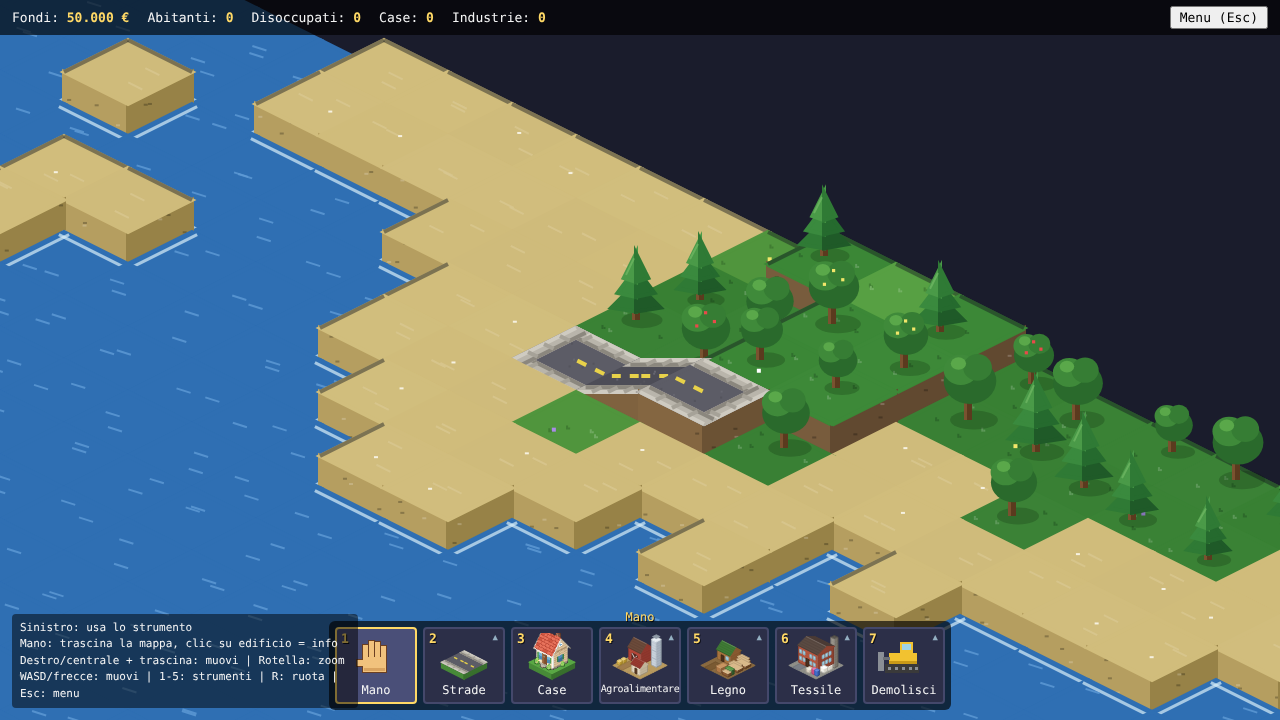
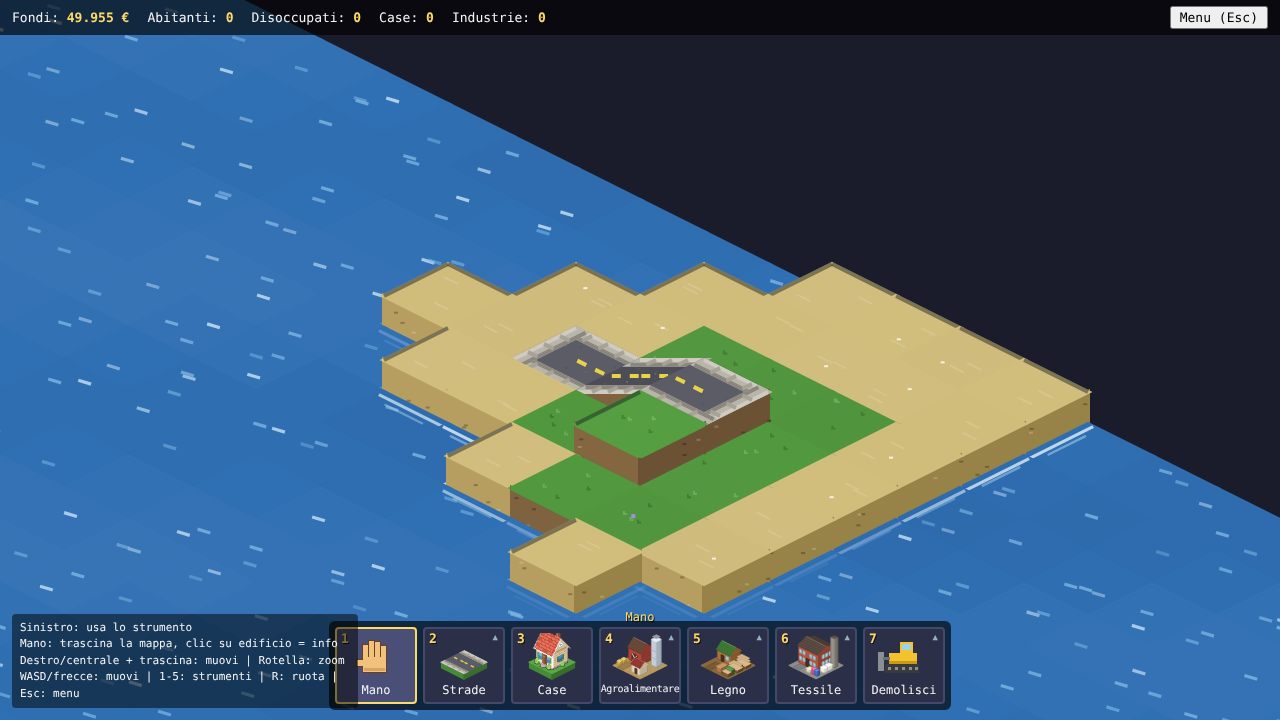
Pezzi degli edifici nell'ordine giusto da tutti i lati (casse del magazzino), lama della segheria che segue la rotazione, acqua animata
Claude-Session: https://claude.ai/code/session_01EPii4HtPudbMHHXMoA5j75

diff --git a/js/render.js b/js/render.js
@@ -35,6 +35,8 @@ function poly(c, pts, color) {
 
 // Livello di dettaglio: falso quando lo zoom è lontano (si disegna più semplice per andare veloci)
 let DETAIL = true;
+let animT = 0;      // tempo (secondi) per le animazioni (acqua)
+let waterSeen = false;   // nell'ultimo fotogramma si vedeva acqua (allora si anima)
 let FINE = true;    // dettagli minuti (ciuffi, sassi, alberi elaborati): solo da zoom 2 in su
 
 // linea sottile (mezzo pixel del mondo = 1 pixel dello schermo a zoom normale) con trasparenza
@@ -128,11 +130,19 @@ function terrainDetail(c, x, y, t, P, col) {
     for (let i = 0; i < 3; i++) dot(0.1 + H(70 + i) * 0.8, 0.1 + H(75 + i) * 0.8, i ? shadeC(col[0], 0.2) : col[1], 1, 0.5);
   } else if (t.type === T.SNOW) {
     for (let i = 0; i < 3; i++) dot(0.1 + H(80 + i) * 0.8, 0.1 + H(85 + i) * 0.8, i ? '#ffffff' : '#c8d8ea');
-  } else if (t.type === T.WATER) {
-    for (let i = 0; i < 2; i++) {
-      const u = 0.1 + H(90 + i) * 0.6, v = 0.15 + H(95 + i) * 0.7;
-      aline(c, P(u, v), P(u + 0.18, v - 0.04), '#5f9bd6', 0.8);
-    }
+  }
+}
+
+// Acqua animata: le increspature scorrono piano e brillano a turno, la schiuma sulle rive pulsa
+function waterDetail(c, x, y, P) {
+  const H = k => hash(x, y, k);
+  for (let i = 0; i < 3; i++) {
+    const ph = animT * 0.9 + H(100 + i) * 6.28;
+    const a = 0.35 + 0.45 * Math.max(0, Math.sin(ph));                 // brilla e si spegne
+    if (a < 0.4) continue;
+    const drift = ((animT * 0.06 + H(90 + i)) % 1) * 0.6;              // scivola lungo il tile
+    const u = 0.1 + drift, v = 0.15 + H(95 + i) * 0.7;
+    aline(c, P(u, v), P(u + 0.16, v - 0.04), i ? '#7fb6e6' : '#cfe6f8', a, 0.8);
   }
 }
 
@@ -522,9 +532,31 @@ function drawDoor(c, ax, ay, base, r, bx, d) {
   aline(c, q[0], q[1], '#000000', 0.35); aline(c, q[1], q[2], '#000000', 0.35);
   aline(c, q[2], q[3], '#000000', 0.35); aline(c, q[3], q[0], '#000000', 0.35);
 }
+// Ordine dei pezzi (dal più lontano al più vicino): A va prima di B se gli sta tutto dietro,
+// cioè dalla parte delle u o delle v più piccole. Prima si usava solo la somma dell'angolo più
+// lontano e una cassa davanti a un capannone poteva finire disegnata prima (e coperta).
+// Pezzi che si sovrappongono a terra (camini e insegne dentro un edificio) restano nell'ordine
+// di prima: il più piccolo prima, così l'edificio copre la parte bassa e sporge solo la cima.
+function partBefore(A, B) {
+  const a = A.b, b = B.b, e = 1e-6;
+  const aBehind = a[2] <= b[0] + e || a[3] <= b[1] + e;
+  const bBehind = b[2] <= a[0] + e || b[3] <= a[1] + e;
+  if (aBehind && !bBehind) return true;
+  if (bBehind && !aBehind) return false;
+  if (aBehind && bBehind) return A.i < B.i;       // non si coprono sullo schermo: ordine qualsiasi
+  return A.depth < B.depth || (A.depth === B.depth && A.i < B.i);
+}
+function sortParts(items) {
+  const left = items.slice(), out = [];
+  while (left.length) {
+    let k = left.findIndex(a => !left.some(b => b !== a && partBefore(b, a)));
+    if (k < 0) k = 0;                              // (non dovrebbe succedere) si va avanti comunque
+    out.push(left.splice(k, 1)[0]);
+  }
+  return out;
+}
 function drawParts(c, ax, ay, base, r, parts) {
-  const items = parts.map(p => { const b = rotBox(p.box, r); return { p, b, depth: b[2] + b[3] }; })
-    .sort((a, b) => a.depth - b.depth);
+  const items = sortParts(parts.map((p, i) => { const b = rotBox(p.box, r); return { p, b, i, depth: b[2] + b[3] }; }));
   for (const { p, b } of items) {
     const top = box(c, ax, ay, base, b[0], b[1], b[2], b[3], p.h, p.col);
     if (p.roof) gableRoof(c, ax, ay, top, b[0] - 0.04, b[1] - 0.04, b[2] + 0.04, b[3] + 0.04, p.roof.rh,
@@ -616,8 +648,11 @@ function drawSawmill(c, ax, ay, base, r) {
     { box: [0.7, 0.15, 1.88, 1.25], h: 17, col: { l: '#c9a46a', r: '#a8854f', t: '#8a96a2' },
       roof: { rh: 6, back: '#6f7a86', roof: '#8a96a2', gable: '#a8854f' },
       doors: [{ face: '+v', a: 0.85, b: 1.45, z1: 12, color: '#3a2a1a' }, { face: '+u', a: 0.4, b: 0.9, z0: 9, z1: 13, color: '#9fd3e8' }],
-      after(b, top) {   // lama della sega che spunta dal portone
-        const [sx, sy] = P((b[0] + b[2]) / 2, b[3], base + 6 / STEP);
+      after(b, top) {   // lama della sega nel portone (lato +v senza rotazione): solo se quel lato si vede
+        const n = rotVec(0, 1, r);
+        if (!((n[0] === 0 && n[1] === 1) || (n[0] === 1 && n[1] === 0))) return;
+        const [du, dv] = rotUV(1.15, 1.25, r);
+        const [sx, sy] = P(du, dv, base + 6 / STEP);
         c.fillStyle = '#d5dade'; c.beginPath(); c.arc(sx, sy, 3.5, 0, Math.PI * 2); c.fill();
         c.fillStyle = '#8a8f96'; c.beginPath(); c.arc(sx, sy, 1.2, 0, Math.PI * 2); c.fill();
       } },
@@ -1000,13 +1035,24 @@ function drawTile(c, x, y, detail, onlyTop) {
   else if (t.field) top = SOIL;
   else if (t.building && GROUND[t.building.kind === 'livestock' ? t.building.animal : t.building.kind]) top = GROUND[t.building.kind === 'livestock' ? t.building.animal : t.building.kind];
   else if (detail && t.type !== T.WATER) top = varyTone(top, hash(x, y, 7));   // un po' di variazione: il prato non sembra una scacchiera
+  else if (t.type === T.WATER && detail) {              // l'acqua cambia tono piano piano, a onde
+    waterSeen = true;
+    const w = Math.sin(animT * 0.8 + x * 0.55 + y * 0.85) + Math.sin(animT * 0.5 - x * 0.3 + y * 0.2) * 0.5;
+    top = shadeC(top, Math.round(w * 2) * 0.012);
+  }
   poly(c, [P(0, 0), P(1, 0), P(1, 1), P(0, 1)], top);
-  if (detail && t.type === T.WATER) {                    // schiuma lungo la riva
+  if (detail && t.type === T.WATER) {
+    waterDetail(c, x, y, P);
+    const foam = 0.45 + 0.35 * Math.sin(animT * 1.6 + (x + y) * 0.7);   // schiuma lungo la riva
     for (let d = 0; d < 4; d++) {
       const nx = x + DIRS[d].dx, ny = y + DIRS[d].dy;
       if (!inMap(nx, ny) || game.map[ny][nx].type === T.WATER) continue;
       const [A, B] = EDGE_UV[d], inw = [-DIRS[d].dx * 0.08, -DIRS[d].dy * 0.08];
-      aline(c, P(A[0] + inw[0], A[1] + inw[1]), P(B[0] + inw[0], B[1] + inw[1]), '#d8eef8', 0.7, 0.8);
+      aline(c, P(A[0] + inw[0], A[1] + inw[1]), P(B[0] + inw[0], B[1] + inw[1]), '#e4f3fb', foam, 0.8);
+      const k2 = 0.16 + 0.04 * Math.sin(animT * 1.6 + (x + y) * 0.7 + 1.5);
+      const in2 = [-DIRS[d].dx * k2, -DIRS[d].dy * k2];
+      aline(c, P(A[0] + in2[0] + 0.2 * (B[0] - A[0]), A[1] + in2[1] + 0.2 * (B[1] - A[1])),
+        P(A[0] + in2[0] + 0.8 * (B[0] - A[0]), A[1] + in2[1] + 0.8 * (B[1] - A[1])), '#bfe0f4', foam * 0.6, 0.6);
     }
   }
 
@@ -1243,6 +1289,7 @@ function drawFrame() {
   ctx.setTransform(z, 0, 0, z, Math.round(cam.x), Math.round(cam.y));
   ctx.imageSmoothingEnabled = false;
   DETAIL = z >= 1; FINE = z >= 2;
+  animT = performance.now() / 1000; waterSeen = false;
 
   const r = visibleRange();
   const detail = z >= 1;

diff --git a/js/app.js b/js/app.js
@@ -6,13 +6,15 @@ function resize() {
 }
 addEventListener('resize', resize);
 
-let lastTime = performance.now();
+let lastTime = performance.now(), lastWaterFrame = 0;
 function loop(now) {
   const dt = Math.max(0, ((now || performance.now()) - lastTime) / 1000);
   lastTime = now || performance.now();
   panWithKeys(Math.min(dt, 0.05));
   simUpdate(dt);
   panelUpdate(dt);
+  // l'acqua si anima ~8 volte al secondo (solo se si vede e lo zoom è vicino: da lontano costerebbe troppo)
+  if (waterSeen && zoomLevel() >= 1 && lastTime - lastWaterFrame > 125) { lastWaterFrame = lastTime; needsDraw = true; }
   if (needsDraw) { needsDraw = false; drawFrame(); }
   requestAnimationFrame(loop);
 }

diff --git a/CLAUDE.md b/CLAUDE.md
@@ -70,6 +70,8 @@ Gioco city builder isometrico in stile retro, in JavaScript + Canvas 2D, impacch
 - Veicoli: `tools/sprites/vehicles.py` (stesso metodo della casa) crea `vehicles.png`: colonne = direzione di marcia (DIRS 0..3), righe = berlina, utilitaria, furgone; ancora = centro del veicolo a terra. Carrozzeria (e striscia del furgone) in colore maschera (r 255, g 0, b = tono*40): `tintedSprite(name, colore)` la ricolora al volo (copie in memoria), `drawSpriteImage` la disegna; `vehicleDir(v)` dal segmento in corso; `v.model` 0/1 a caso per le auto.
 - Strade (disegnate nel codice, non sprite, così vanno su rampe e ponti): grana dell'asfalto, marciapiedi lastricati con cordolo sui lati liberi, angoli di marciapiede tra due bracci collegati, mezzeria gialla tratteggiata (niente agli incroci, strisce di stop all'ingresso), tombini; autostrada con linee di bordo; terra con sassolini e ciuffi d'erba. Da lontano (`detail` falso, zoom < 1) la versione semplice per non rallentare.
 - Grafica generale (render.js): `DETAIL` (zoom >= 1) e `FINE` (zoom >= 2) decidono quanto dettaglio disegnare (da lontano semplice per la velocità; icone sempre dettagliate). `box` ha righe di mattoni/doghe, spigolo chiaro, ombra alla base e contorno; `gableRoof` file di tegole e colmo (`roofLines`); `drawDoor` cornici e vetrate con divisori e riflesso; `drawWall` scarpate di terra sotto l'erba (`wallColor`) con bordo d'erba, strati e sassi; `terrainDetail` ciuffi e fiori, sabbia, crepe nella roccia, neve, onde; schiuma sulle rive; alberi pini/latifoglie con ombra (`drawTree`); binari con ghiaia. `aline` = linea sottile con trasparenza, `shadeC` = shade con memoria (usarlo nei disegni ripetuti). Niente tombini sulle strade: l'utente li vedeva come punti neri.
+- Ordine dei pezzi negli edifici (`drawParts` -> `sortParts`/`partBefore`): un pezzo va prima di un altro se gli sta tutto dietro (u o v più piccoli); solo i pezzi che si sovrappongono a terra (camini, insegne dentro l'edificio) usano ancora la somma dell'angolo. Prima le casse davanti al magazzino finivano coperte dal capannone. Le decorazioni in `after` devono seguire la rotazione (`rotUV`/`rotVec`) e comparire solo sui lati visibili. Controllo visivo: tutti gli edifici nelle 4 rotazioni (script di prova con `useTool` a rotazione 0..3).
+- Acqua animata: `animT` (secondi), tono che cambia a onde, increspature che scorrono e brillano (`waterDetail`), schiuma sulle rive che pulsa. `waterSeen` = nel fotogramma c'era acqua: allora `app.js` ridisegna ~8 volte al secondo (solo con zoom >= 1).
 - Casa: `tools/sprites/house.py` (Python + Pillow) crea `house.png` da un piccolo modello 3D "fotografato" pixel per pixel con scale di toni (muri a doghe, tetto a tegole, comignolo, finestre con persiane, porta, gradino, vialetto, cespugli). L'utente vuole pixel art più dettagliata; la casa è la prima prova, poi un edificio alla volta.
 
 ## Strade speciali e ponti
